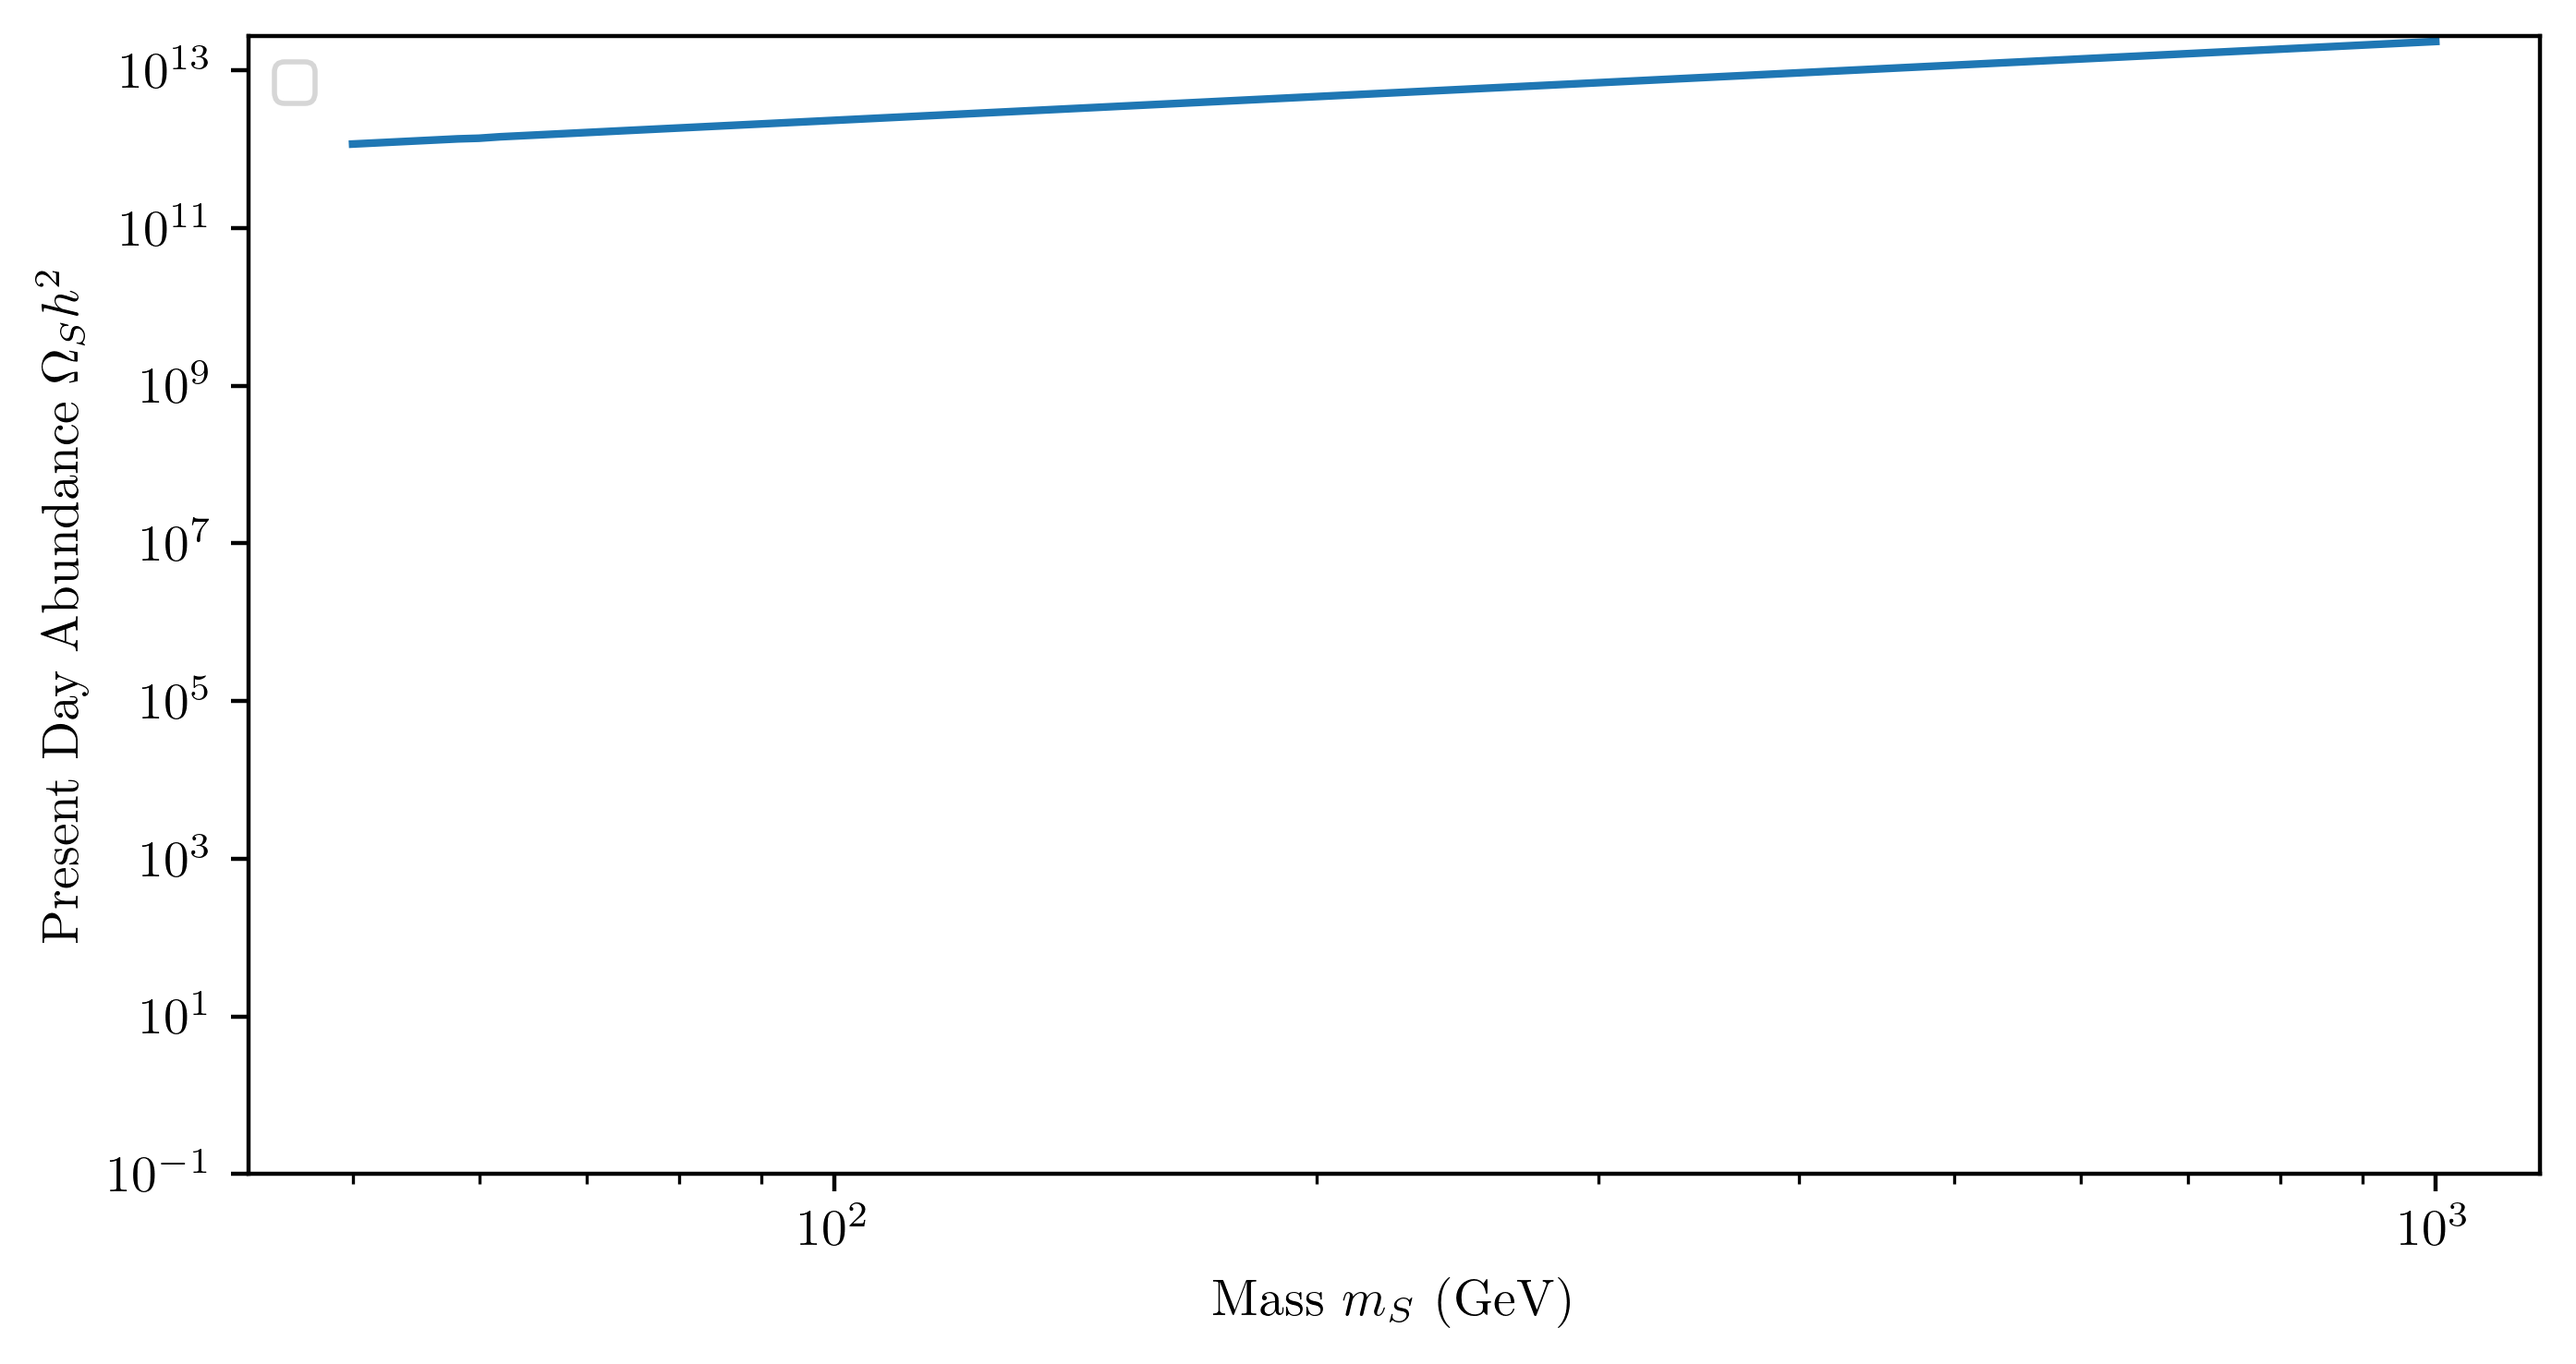
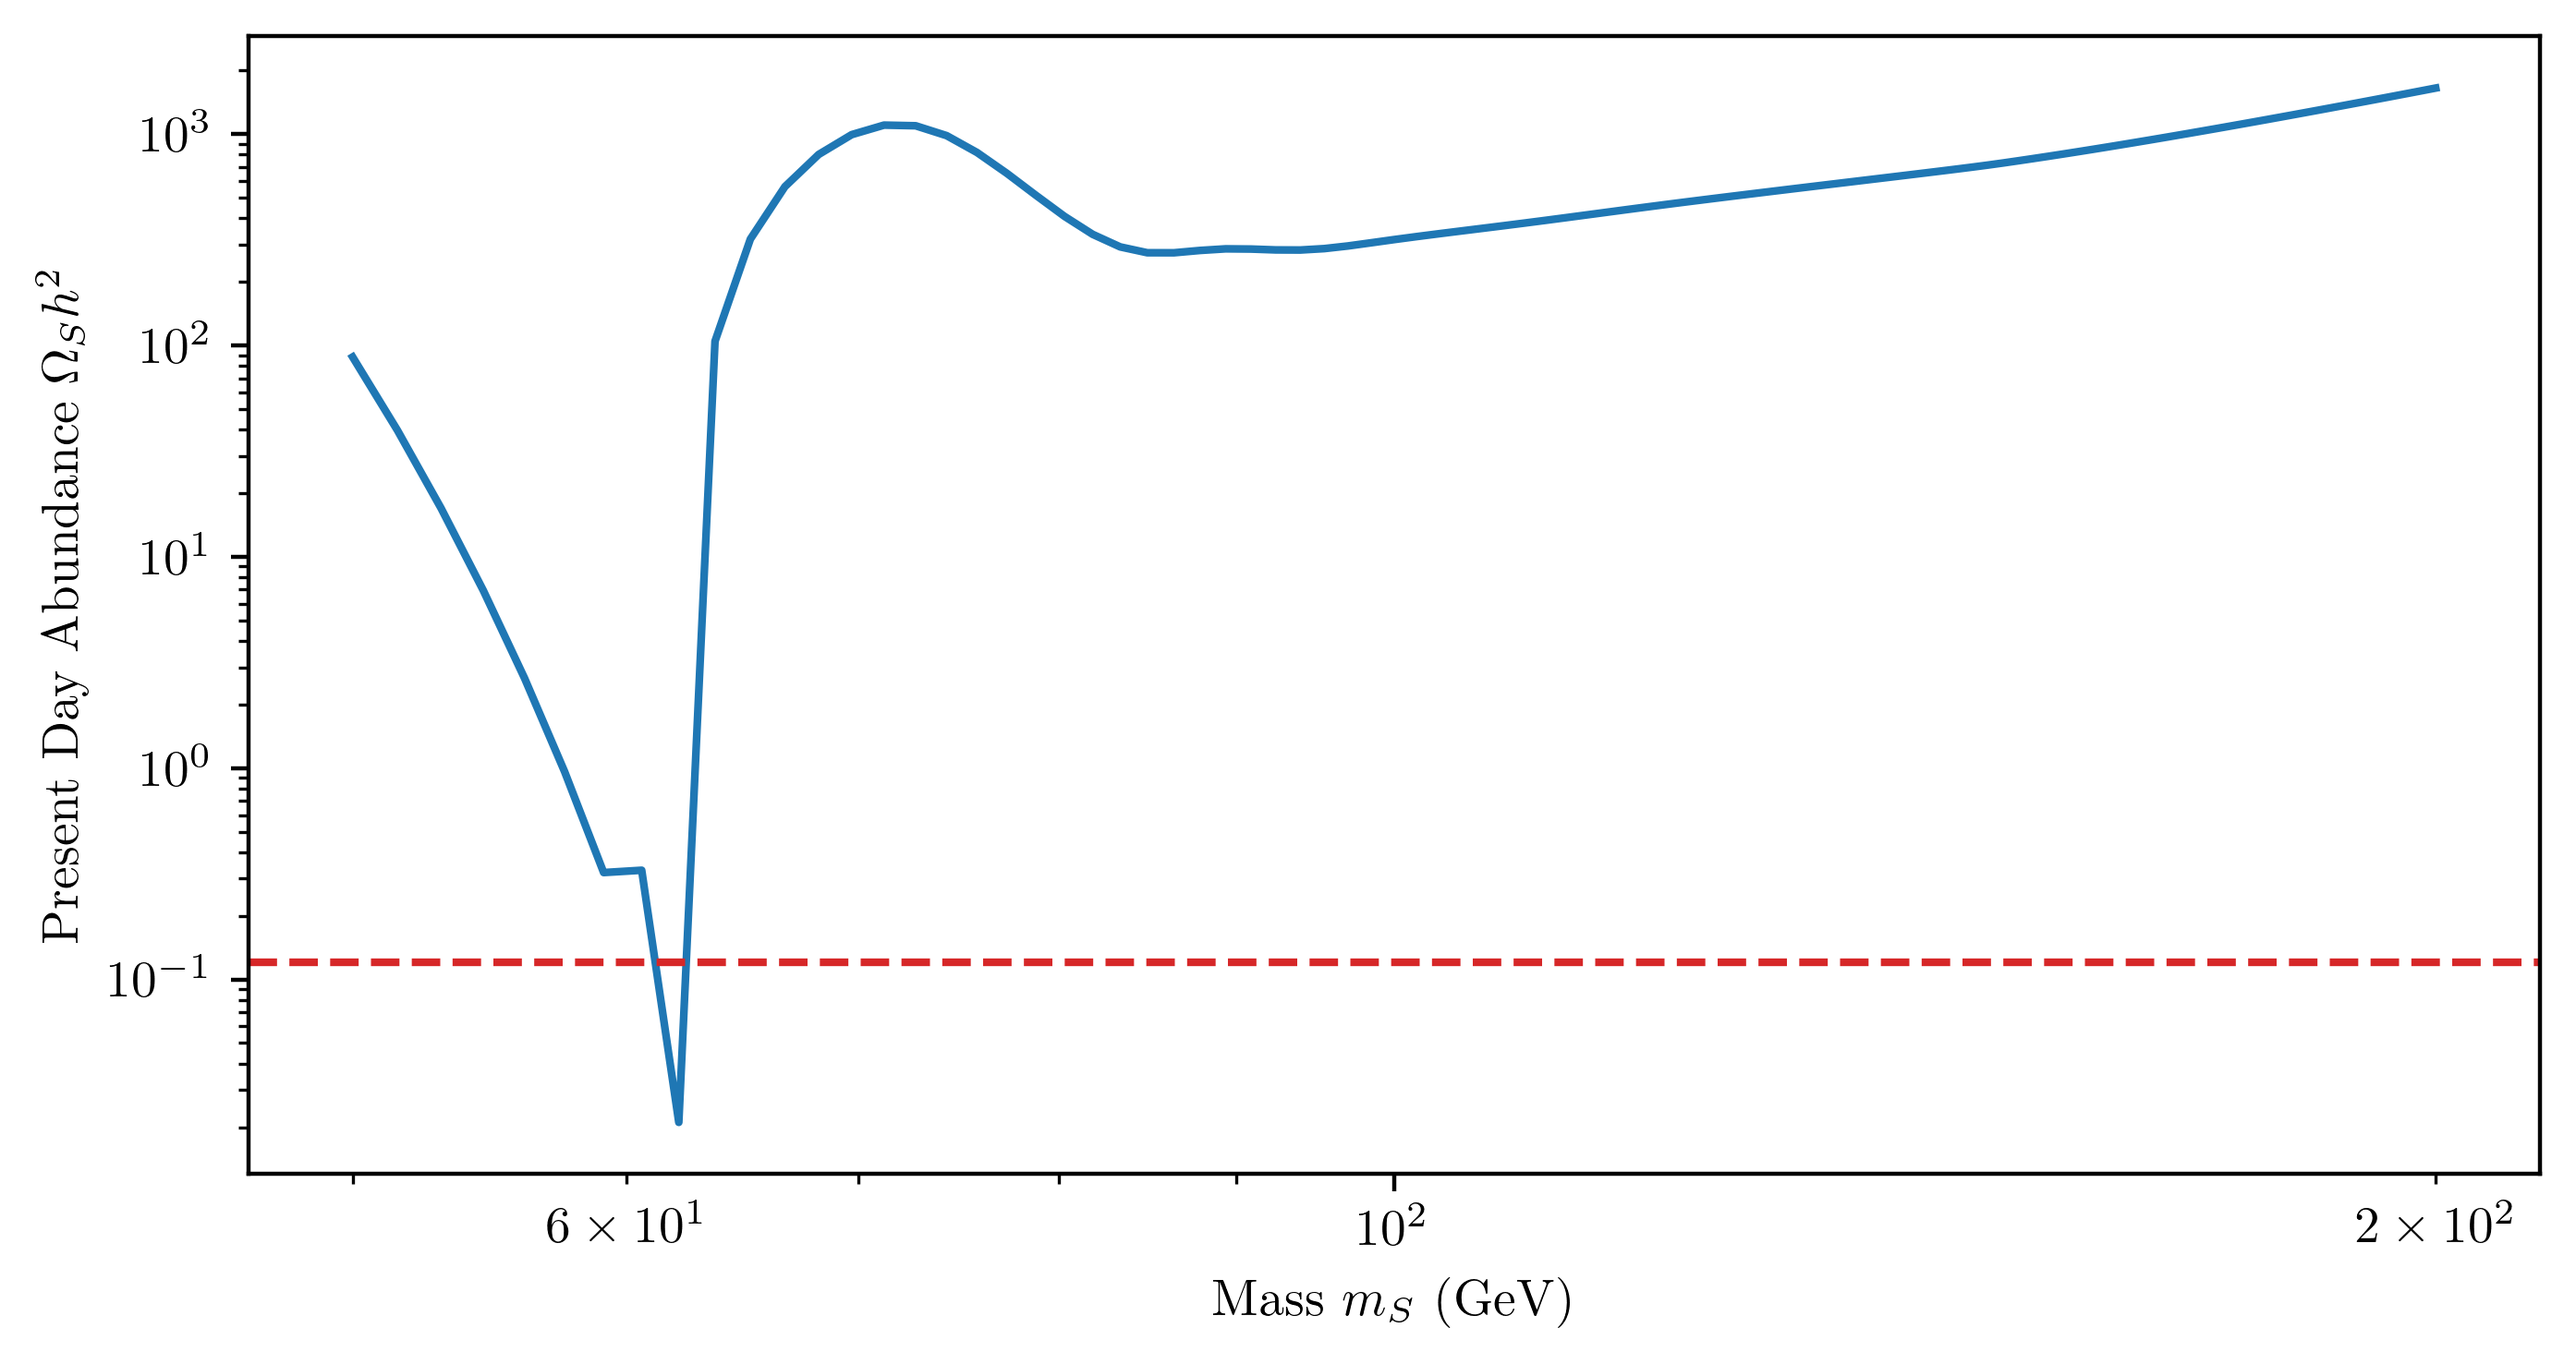
fix Q4c, pickle file

diff --git a/Question2.py b/Question2.py
@@ -290,8 +290,9 @@ def root_find(xarr, mass):
 
 
 ### Q4c ###
-x = np.logspace(0, 3, 100)
-masses = np.logspace(np.log10(50), 3, 100) # big range of masses to look at
+x = np.logspace(0, 3, 20)
+# masses = np.logspace(np.log10(50), 3, 100) # big range of masses to look at
+masses = np.linspace(50, 200, 100)
 # ovs = np.linspace(-30, -26, 5) # look at a few cross sections - this is a linspace, but these values will be used as powers
 
 # ys = np.zeros((len(masses), len(ovs))) # initialise array of data
@@ -300,8 +301,14 @@ ys = np.zeros(len(masses))
 for i, mass in enumerate(masses):
     # ys[i] = cosmo_abund([], x, mass, 1/2, 0, [True, 1e-3]) # calculate present day val for this mass and cross section, and store it
     # ys[i] = dimenless_abund(x, mass, 1/2, [], [True, 1e-3])[-1]
-    ys[i] = (~np.isnan(dimenless_abund(x, mass, 1/2, [], [True, 1e-3]))).cumsum().argmax()
-    print(i)
+    arr = dimenless_abund(x, mass, 1/2, [], [True, 1e-3])
+    index = len(masses) - 1
+    for j, val in enumerate(arr):
+        if np.isnan(val):
+            index = j - 1 
+            break 
+    ys[i] = arr[index]
+    print(i, ys[i])
 
 ys *= masses / (3.63 * 10**-9)
 
